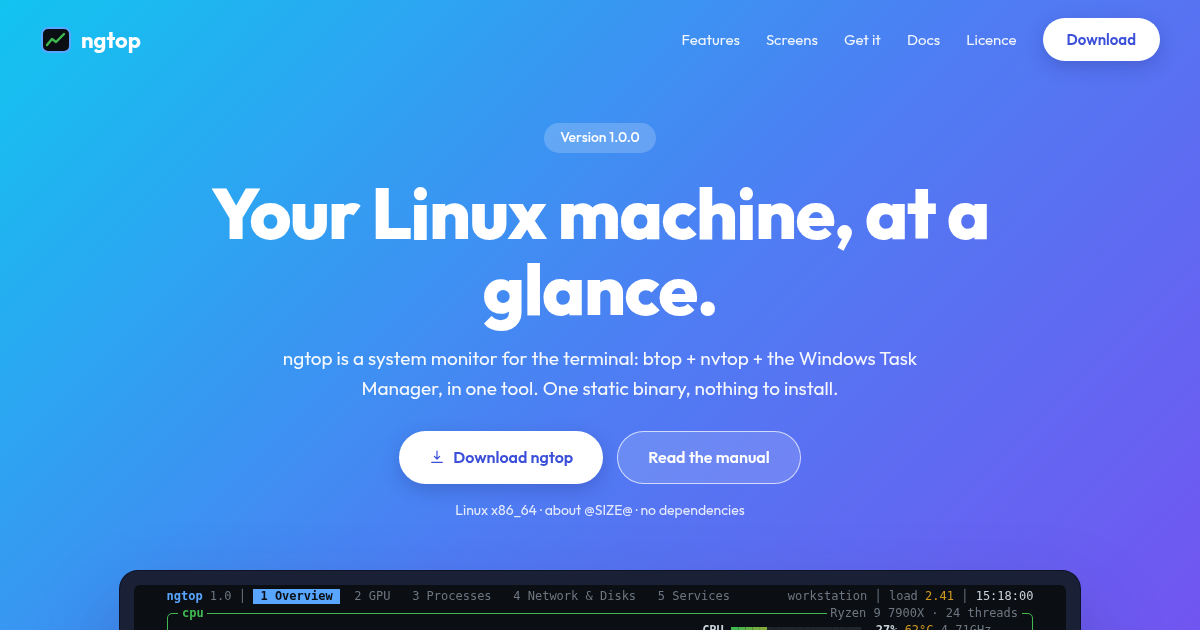
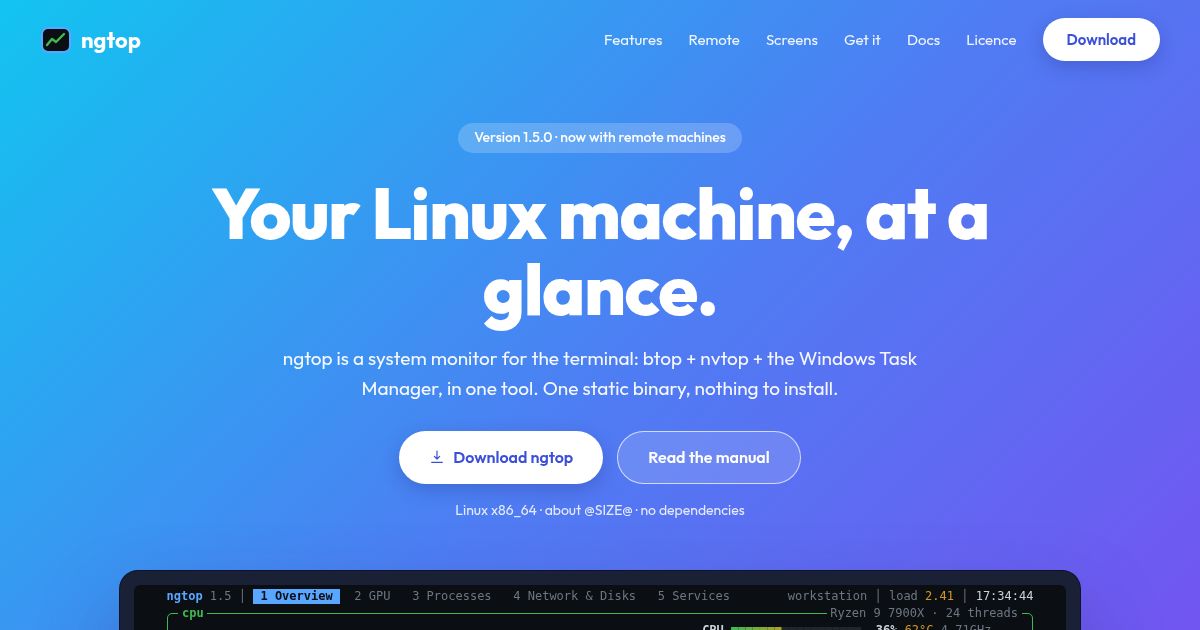
Website for 1.5: remote machines section, version 1.5.0

diff --git a/site/landing/index.html b/site/landing/index.html
@@ -129,11 +129,11 @@ footer a:hover{color:var(--ink)}
  <div class="wrap">
   <nav>
    <a class="logo" href="#top"><svg><use href="#logo"/></svg>ngtop</a>
-   <a class="l" href="#features">Features</a><a class="l" href="#screens">Screens</a><a class="l" href="#download">Get it</a><a class="l" href="#docs">Docs</a><a class="l" href="licence.html">Licence</a>
+   <a class="l" href="#features">Features</a><a class="l" href="#remote">Remote</a><a class="l" href="#screens">Screens</a><a class="l" href="#download">Get it</a><a class="l" href="#docs">Docs</a><a class="l" href="licence.html">Licence</a>
    <a class="pill" href="download/ngtop" download>Download</a>
   </nav>
   <div class="c" id="top">
-   <span class="badge">Version 1.0.0</span>
+   <span class="badge">Version 1.5.0 · now with remote machines</span>
    <h1>Your Linux machine, at a glance.</h1>
    <p class="sub">ngtop is a system monitor for the terminal: btop + nvtop + the Windows Task Manager, in one tool. One static binary, nothing to install.</p>
    <div class="btns"><a class="pill" href="download/ngtop" download><svg class="i"><use href="#i-dl"/></svg>Download ngtop</a><a class="pill ghost" href="User%20Manual.html">Read the manual</a></div>
@@ -179,6 +179,20 @@ footer a:hover{color:var(--ink)}
  </div>
 </section>
 
+<section class="feat" id="remote">
+ <div class="wrap">
+  <span class="eyebrow">New in 1.5</span>
+  <h2>Watch another machine over ssh</h2>
+  <p class="lead">Give ngtop a host and it shows that Linux machine exactly like the local one: same five sections, same keys. Nothing is installed on the server.</p>
+  <div style="text-align:center"><div class="cmd" style="background:#0f1730;color:#e6ecff"><i>$</i> ngtop alex@server<br><i>$</i> ngtop ssh://alex@server:2222</div></div>
+  <div class="fgrid">
+   <div class="card"><div class="ic"><svg class="i"><use href="#i-term"/></svg></div><h3>Nothing to install</h3><p>The server needs only an ssh server and a POSIX shell, even busybox. ngtop reads its /proc and /sys through one ssh session and leaves nothing behind.</p></div>
+   <div class="card"><div class="ic"><svg class="i"><use href="#i-key"/></svg></div><h3>Your ssh, your keys</h3><p>ngtop runs the ssh command of your PC, so your keys, agent, ~/.ssh/config and jump hosts all work. The bar shows the host and the latency.</p></div>
+   <div class="card"><div class="ic"><svg class="i"><use href="#i-bolt"/></svg></div><h3>Light on both ends</h3><p>About 2–3 KB per refresh on the wire and under 1 % of CPU on the server, measured with a refresh every second. Read-only in 1.5: signals and service actions stay local.</p></div>
+  </div>
+ </div>
+</section>
+
 <section class="screens" id="screens">
  <div class="wrap">
   <span class="eyebrow">Real screens</span>
@@ -197,7 +211,7 @@ footer a:hover{color:var(--ink)}
  <div class="wrap">
   <span class="eyebrow">Documentation</span>
   <h2>Two manuals, and the reasons behind them</h2>
-  <p class="lead">Written for ngtop 1.0.0, with real screens of the program. One HTML page each: they work offline too.</p>
+  <p class="lead">Written for ngtop 1.5.0, with real screens of the program. One HTML page each: they work offline too.</p>
   <div class="fgrid">
    <a class="card" href="User%20Manual.html" style="color:inherit;text-decoration:none"><div class="ic"><svg class="i"><use href="#i-list"/></svg></div><h3>User Manual →</h3><p>Everything about using ngtop: the screen, the five sections, signals, services, configuration, permissions, troubleshooting and every key.</p></a>
    <a class="card" href="Technical%20Manual.html" style="color:inherit;text-decoration:none"><div class="ic"><svg class="i"><use href="#i-term"/></svg></div><h3>Technical Manual →</h3><p>How ngtop is built: architecture, where every number comes from, the interface, safety, performance, the static build, testing and extending it.</p></a>
@@ -213,7 +227,7 @@ footer a:hover{color:var(--ink)}
    <h2>Download. chmod. Run.</h2>
    <p class="lead">One file, nothing to install. Download it, make it executable, run it.</p>
    <div class="cmd"><i>$</i> curl -LO https://ngtop.nicfio.it/download/ngtop &amp;&amp; chmod +x ngtop &amp;&amp; ./ngtop</div><br>
-   <a class="pill" href="download/ngtop" download><svg class="i"><use href="#i-dl"/></svg>Download ngtop 1.0.0</a>
+   <a class="pill" href="download/ngtop" download><svg class="i"><use href="#i-dl"/></svg>Download ngtop 1.5.0</a>
    <div class="facts"><span>Linux x86_64</span><span>@SIZE@</span><span>SHA-256 <code class="sha">@SHA256@</code></span><span><a href="download/SHA256SUMS">Verify: SHA256SUMS</a></span><span>No dependencies</span><span>Config: ~/.config/ngtop/config.toml</span><span>ngtop --dump: text summary</span></div>
   </div>
   <p class="tested"><b>Tested on</b> Ubuntu 24.04 · Debian 12 · Debian 10 · Fedora 41 · Arch Linux · Alpine 3.20 · openSUSE Tumbleweed · CentOS 7</p>
@@ -225,7 +239,7 @@ footer a:hover{color:var(--ink)}
  <div class="wrap">
   <span class="logo"><svg><use href="#logo"/></svg>ngtop</span>
   <a href="#features">Features</a><a href="#screens">Screens</a><a href="#download">Get it</a><a href="User%20Manual.html">User manual</a><a href="Technical%20Manual.html">Technical manual</a><a href="decisions.html">Design decisions</a><a href="licence.html">Licence</a>
-  <span>ngtop 1.0.0 · October 2026 · by nic-fio</span>
+  <span>ngtop 1.5.0 · October 2026 · by nic-fio</span>
  </div>
 </footer>
 

diff --git a/site/landing/ngterm.js b/site/landing/ngterm.js
@@ -21,7 +21,7 @@ const NGT = (() => {
     compact: [['F1', 'Help'], ['/', 'Filter'], ['F5', 'Tree'], ['F6', 'Sort'], ['F9', 'Sig'], ['q', 'Quit']],
   };
   const keys = n => '<div class="keys">' + KEYS[n].map(([k, l]) => `<b>${k}</b><span>${l}</span>`).join('') + '</div>';
-  const top = (n) => `<div class="top"><span class="b c-net">ngtop</span><span class="dim"> 1.0 │ </span><div class="tabs">${SECTIONS.map((s, i) => `<span data-s="${i}" class="${i === IDX[n] ? 'on' : ''}">${i + 1} ${s}</span>`).join('')}</div><span class="grow"></span><span class="dim"> workstation │ load </span><span class="c-yel">2.41</span><span class="dim"> │ </span><span data-clock></span></div>`;
+  const top = (n) => `<div class="top"><span class="b c-net">ngtop</span><span class="dim"> 1.5 │ </span><div class="tabs">${SECTIONS.map((s, i) => `<span data-s="${i}" class="${i === IDX[n] ? 'on' : ''}">${i + 1} ${s}</span>`).join('')}</div><span class="grow"></span><span class="dim"> workstation │ load </span><span class="c-yel">2.41</span><span class="dim"> │ </span><span data-clock></span></div>`;
   const P = (c, t, body, extra = '') => `<div class="panel" style="--c:${c}"><span class="t">${t}</span>${extra}${body}</div>`;
   const tr = t => `<span class="t tr">${t}</span>`;
 
